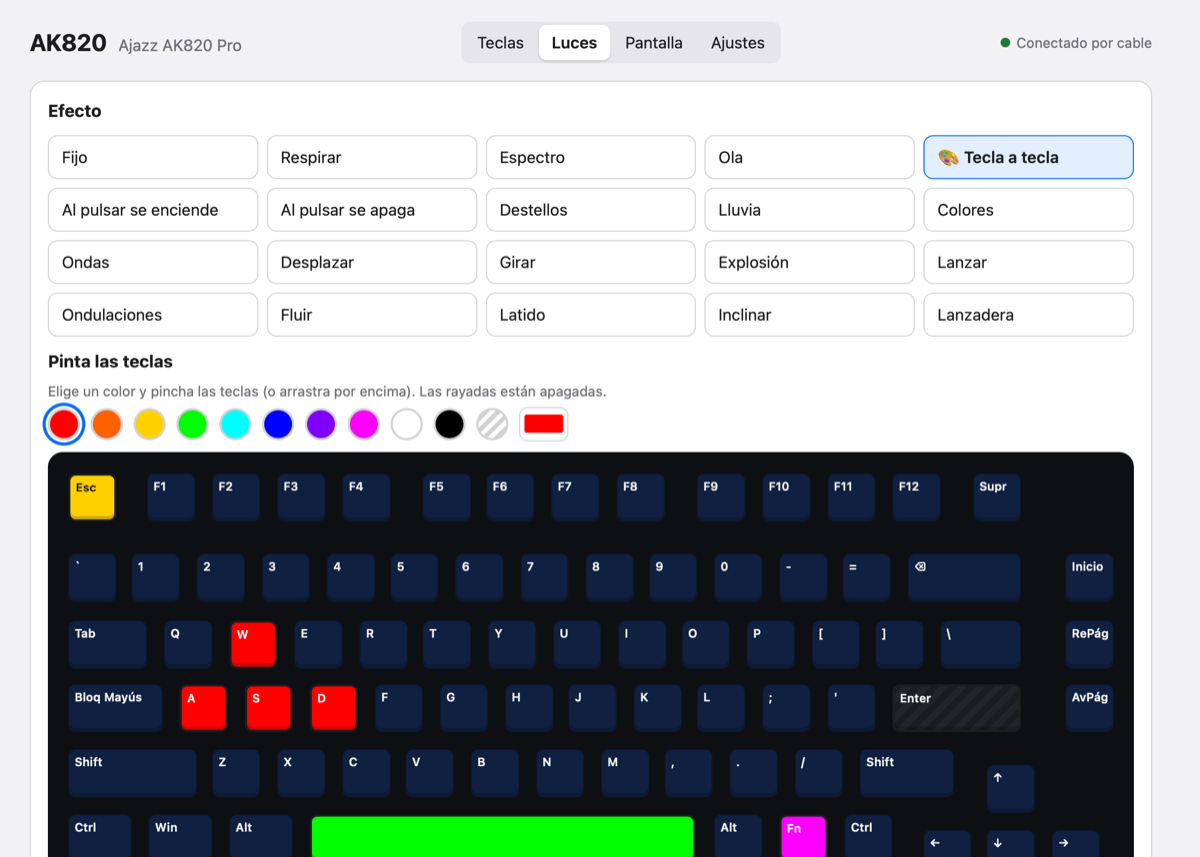
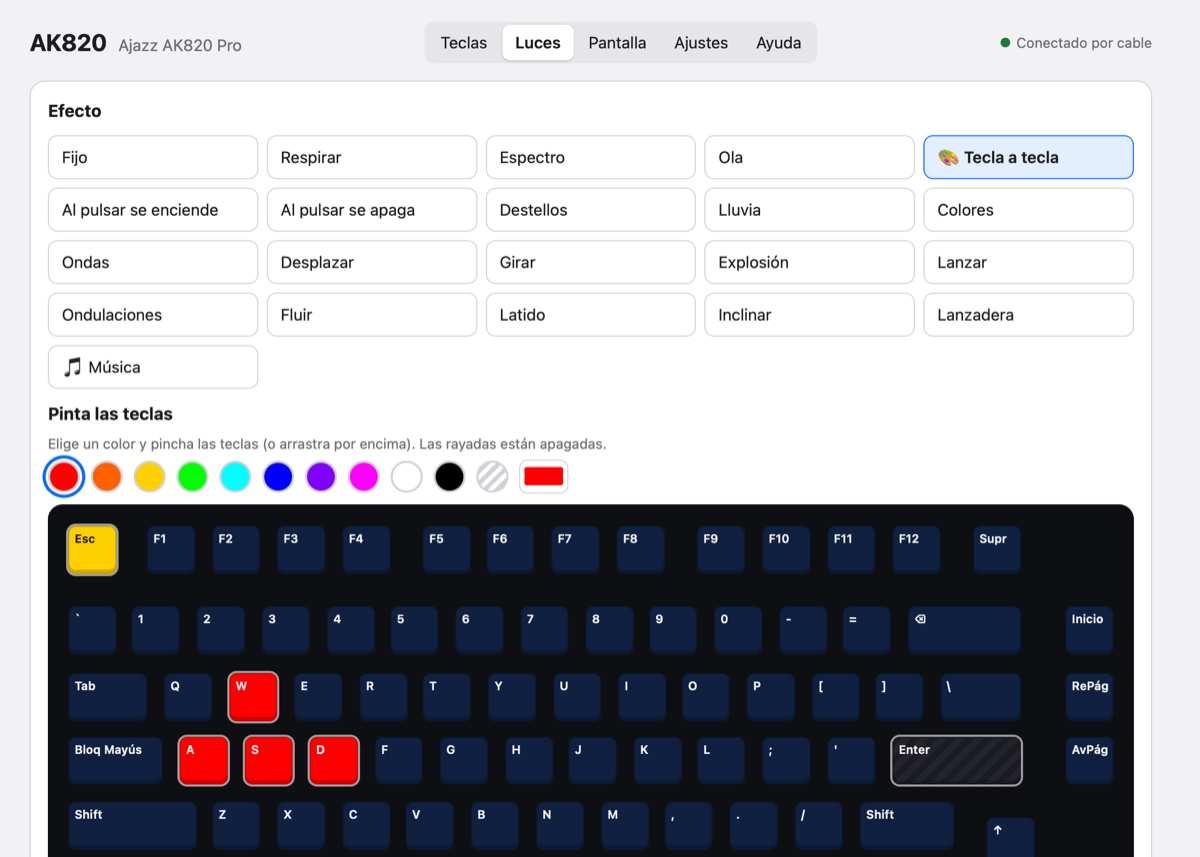
La terminal también en inglés, y capturas en inglés para el README
- Todas las órdenes, opciones y valores tienen nombre en inglés (find, lights breath
  --brightness 3, keys pgdn=cmd+left, factory --yes…): se cambian por los de siempre antes
  de leer la orden, así que el español sigue igual. `--help` y `keys list` lo explican, y
  los mensajes en inglés usan ya los nombres en inglés.
- README en inglés: ejemplos con los nombres en inglés y capturas de la app en inglés
  (docs/img/en). Las capturas en español, rehechas con la pestaña Ayuda; fuera la de
  Ajustes, que no se usaba.

Claude-Session: https://claude.ai/code/session_01VJgjL7vzho55NEya5fVSrd

Changed region(s): [[0.0308, 0.3944, 0.9558, 1.0], [0.37, 0.0303, 0.6783, 0.091], [0.8633, 0.9708, 0.925, 1.0]]

diff --git a/ak820.py b/ak820.py
@@ -1419,6 +1419,8 @@ def cmd_teclas(args):
         print(tr("Multimedia:"), " ".join(MULTIMEDIA))
         print(tr("Ratón:"), " ".join(RATON), "doble_clic")
         print(tr("Para devolver una sola tecla a lo de fábrica: tecla=defecto (p. ej. avpag=defecto)"))
+        nombres = set(POSICION_TECLA) | set(CODIGO_TECLA) | set(MODIFICADOR) | set(MULTIMEDIA) | set(RATON) | {"doble_clic"}
+        print(tr("También en inglés:"), " ".join(en for en, es in EN_VALORES.items() if es in nombres))
         return 0
     config = cargar_teclas()
     if not args.cambios:
@@ -1515,8 +1517,77 @@ def cmd_imagen(args):
     return 0
 
 
+# --- La terminal también en inglés --------------------------------------------------------------
+# Las órdenes, opciones y valores se pueden escribir en inglés (lights breath --brightness 3,
+# keys pgdn=cmd+left); antes de leer la orden se cambian por los nombres de siempre.
+EN_ORDENES = {"find": "buscar", "clock": "reloj", "lights": "luces", "sleep": "reposo",
+              "settings": "sistema", "factory": "fabrica", "resend": "reenviar", "battery": "bateria",
+              "music": "musica", "colors": "colores", "image": "imagen", "keys": "teclas"}
+EN_OPCIONES = {"--time": "--hora", "--brightness": "--brillo", "--speed": "--velocidad",
+               "--direction": "--direccion", "--rainbow": "--arcoiris", "--fn-mode": "--fn-modo",
+               "--response": "--respuesta", "--sleep": "--reposo", "--lock": "--bloquear",
+               "--unlock": "--desbloquear", "--factory": "--fabrica", "--yes": "--si", "--undo": "--deshacer",
+               "--mode": "--modo", "--seconds": "--segundos", "--background": "--fondo", "--times": "--veces"}
+EN_VALORES = {
+    # efectos de luz (los nombres del programa oficial)
+    "static": "fijo", "off": "apagado", "single-key": "una-tecla", "single-key-off": "una-tecla-off",
+    "glittering": "brillos", "rain": "lluvia", "colorful": "colores", "breath": "respirar",
+    "spectrum": "espectro", "outward": "ondas", "scrolling": "desplazar", "wave": "rodar",
+    "rotating": "girar", "explode": "explosion", "launch": "lanzar", "ripples": "ondulas",
+    "flowing": "fluir", "pulsating": "latido", "tilt": "inclinar", "shuttle": "lanzadera", "custom": "personal",
+    # direcciones y flechas
+    "left": "izquierda", "down": "abajo", "up": "arriba", "right": "derecha",
+    # reposo, modo de Fn y modos de las macros
+    "never": "nunca", "hold": "mantener", "toggle": "alternar", "once": "una", "times": "veces", "step": "paso",
+    # modo música
+    "green-yellow-red": "verde-amarillo-rojo", "rainbow": "arcoiris", "reverse-rainbow": "arcoiris-inverso",
+    "gradient": "degradado", "cycle": "ciclo", "white": "blanco", "red": "rojo", "orange": "naranja",
+    "yellow": "amarillo", "blue": "azul", "green": "verde",
+    # palabras de 'teclas', 'colores' e 'imagen'
+    "list": "lista", "reset": "restaurar", "all": "todo", "default": "defecto", "test": "prueba",
+    # teclas, multimedia y ratón
+    "ralt": "alt_der", "rctrl": "ctrl_der", "rshift": "shift_der", "rcmd": "cmd_der", "roption": "option_der",
+    "rwin": "win_der", "caps": "bloqmayus", "printscreen": "imprpant",
+    "next": "siguiente", "previous": "anterior", "prev": "anterior", "mute": "silencio",
+    "volume+": "volumen+", "volume-": "volumen-", "brightness+": "brillo+", "brightness-": "brillo-",
+    "click": "clic", "right_click": "clic_der", "middle_click": "clic_medio",
+    "wheel_up": "rueda_arriba", "wheel_down": "rueda_abajo", "double_click": "doble_clic",
+}
+
+
+def desde_ingles(argv):
+    """La línea de órdenes con los nombres en inglés cambiados por los de siempre."""
+    def valor(v):
+        if v.lower().startswith("text:"):                   # el texto de la macro, tal cual
+            return "texto:" + v[len("text:"):]
+        if v.lower() in EN_VALORES:
+            return EN_VALORES[v.lower()]
+        if "+" in v.strip("+-"):                             # combinación: cmd+left
+            return "+".join(EN_VALORES.get(p.lower(), p) for p in v.split("+"))
+        return v
+
+    salida = []
+    for n, a in enumerate(argv):
+        if n == 0:
+            salida.append(EN_ORDENES.get(a, a))
+        elif a.startswith("--"):
+            opcion, igual, resto = a.partition("=")
+            salida.append(EN_OPCIONES.get(opcion, opcion) + igual + (valor(resto) if igual else ""))
+        elif "=" in a and not a.lower().startswith(("text:", "texto:")):
+            origen, _, destino = a.partition("=")
+            salida.append(valor(origen) + "=" + valor(destino))
+        else:
+            salida.append(valor(a))
+    return salida
+
+
 def main(argv=None):
-    parser = argparse.ArgumentParser(description=tr("Configurador del Ajazz AK820 Pro para Mac"))
+    argv = desde_ingles(sys.argv[1:] if argv is None else list(argv))
+    parser = argparse.ArgumentParser(
+        description=tr("Configurador del Ajazz AK820 Pro para Mac"),
+        epilog=tr("También en inglés: find, clock, lights, sleep, settings, factory, resend, battery, music, "
+                  "colors, image y keys, con sus opciones (--brightness, --speed, --yes…) y valores (breath, "
+                  "wave, left, next, mute, text:…)."))
     sub = parser.add_subparsers(dest="comando", required=True)
     sub.add_parser("buscar", help=tr("comprobar que el Mac ve el teclado (no cambia nada)"))
     r = sub.add_parser("reloj", help=tr("poner en hora la pantalla del teclado"))

diff --git a/tests/test_ak820.py b/tests/test_ak820.py
@@ -377,6 +377,26 @@ class Receptor24G(ConTecladoFalso):
         self.assertIn("receptor 2.4G", salida)
 
 
+class EnIngles(ConTecladoFalso):
+    """La terminal también entiende los nombres en inglés."""
+
+    def test_traduccion(self):
+        self.assertEqual(ak820.desde_ingles(["keys", "pgdn=cmd+left", "pgup=text:Hi left", "--mode", "toggle"]),
+                         ["teclas", "pgdn=cmd+izquierda", "pgup=texto:Hi left", "--modo", "alternar"])
+        self.assertEqual(ak820.desde_ingles(["luces", "rodar", "--direccion", "izquierda"]),
+                         ["luces", "rodar", "--direccion", "izquierda"])         # el español, igual
+
+    def test_luces(self):
+        self.assertEqual(self.orden("lights", "breath", "--brightness", "3")[0], 0)
+        luces = ak820.cargar_luces()
+        self.assertEqual((luces["efecto"], luces["brillo"]), ("respirar", 3))
+
+    def test_teclas(self):
+        codigo, salida = self.orden("keys", "pgdn=cmd+left")
+        self.assertEqual(codigo, 0, salida)
+        self.assertIn(bytes([0x02, 0x08, 0x50, 0x00]), self.teclado.datos())        # ⌘ + flecha izquierda
+
+
 class BuscarOtroTeclado(unittest.TestCase):
     """Con un teclado que no es el nuestro, `buscar` enseña lo que ve para poder contarlo."""
 

diff --git a/README.md b/README.md
@@ -9,7 +9,7 @@ the screen and music mode.
 
 *[Leer en español](README.es.md)*
 
-![The Keys tab](docs/img/teclas.png)
+![The Keys tab](docs/img/en/teclas.png)
 
 ## What it can do
 
@@ -37,7 +37,7 @@ It comes as a menu-bar app with its own window, and as a command-line tool.
 
 | Per-key colors | Music mode |
 |---|---|
-| ![](docs/img/luces-tecla-a-tecla.png) | ![](docs/img/musica.png) |
+| ![](docs/img/en/luces-tecla-a-tecla.png) | ![](docs/img/en/musica.png) |
 
 ## Compatibility
 
@@ -99,19 +99,23 @@ The first time you use music mode, macOS asks for permission to **record system 
 
   ```sh
   source .venv/bin/activate
-  python3 ak820.py buscar                              # is the keyboard there?
-  python3 ak820.py reloj                               # set the clock
-  python3 ak820.py luces respirar --color 8000FF       # an effect (see: luces --help)
-  python3 ak820.py colores esc=FF0000 --fondo 102040    # per-key colors
-  python3 ak820.py musica --modo arcoiris               # music mode, until Ctrl+C
-  python3 ak820.py imagen ~/Desktop/anim.gif            # picture or GIF on the screen
-  python3 ak820.py teclas avpag=cmd+a repag=texto:Hi    # remap keys (see: teclas lista)
-  python3 ak820.py teclas restaurar todo               # all keys back to factory
-  python3 ak820.py sistema --fn-modo alternar          # settings (see: sistema --help)
-  python3 ak820.py bateria                             # battery, if the receiver reports it
-  python3 ak820.py reenviar                            # send the saved setup again
-  python3 ak820.py fabrica --si                        # everything back to factory
+  python3 ak820.py find                                # is the keyboard there?
+  python3 ak820.py clock                               # set the clock
+  python3 ak820.py lights breath --color 8000FF        # an effect (see: lights --help)
+  python3 ak820.py colors esc=FF0000 --background 102040   # per-key colors
+  python3 ak820.py music --mode rainbow                # music mode, until Ctrl+C
+  python3 ak820.py image ~/Desktop/anim.gif            # picture or GIF on the screen
+  python3 ak820.py keys pgdn=cmd+a pgup=text:Hi        # remap keys (see: keys list)
+  python3 ak820.py keys reset all                      # all keys back to factory
+  python3 ak820.py settings --fn-mode toggle           # settings (see: settings --help)
+  python3 ak820.py battery                             # battery, if the receiver reports it
+  python3 ak820.py resend                              # send the saved setup again
+  python3 ak820.py factory --yes                       # everything back to factory
+  python3 ak820.py factory --undo                      # …and back to what you had
   ```
+
+  The code is written in Spanish, so `--help` lists the Spanish names (`luces`,
+  `teclas`…); both work.
 
   Over 2.4 GHz the receiver answers even when the keyboard isn't listening (for example,
   right after switching it to 2.4G), so check that the change shows on the keyboard.

diff --git a/README.es.md b/README.es.md
@@ -113,7 +113,11 @@ sistema** (solo el audio, no la pantalla).
   python3 ak820.py bateria                             # batería, si el receptor la da
   python3 ak820.py reenviar                            # volver a mandar lo guardado
   python3 ak820.py fabrica --si                        # todo de fábrica
+  python3 ak820.py fabrica --deshacer                  # …y volver a lo que tenías
   ```
+
+  Todas las órdenes tienen también nombre en inglés (`lights`, `keys`, `--brightness`…),
+  que es el que usa el README en inglés.
 
   Por 2.4G el receptor contesta aunque el teclado no le escuche (por ejemplo, nada más
   pasarlo a 2.4G), así que comprueba que el cambio se ve en el teclado.
